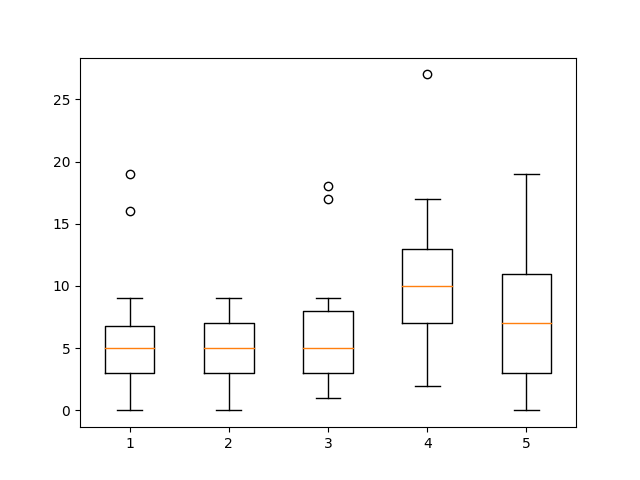
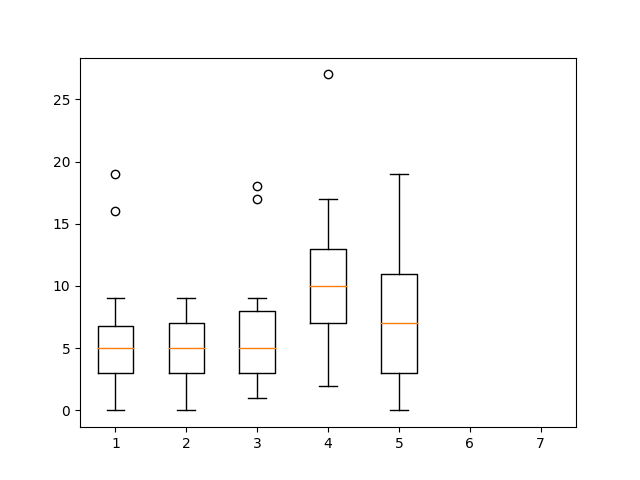
clean up

diff --git a/offline_analysis/reproduce_paper.py b/offline_analysis/reproduce_paper.py
@@ -13,44 +13,57 @@ if __name__ == "__main__":
     for group in ["100", "200", "300", "400", "500", "600", "700"]:    
         viz.gen_dispersion(["un", "una", "unas", "unos"], group, "spa", "DET", "blue", f"imgs/determiners_time/det_{group}_spa_un_unos_una_unas.png")
         viz.gen_dispersion(["el", "la", "los", "las"], group, "spa","DET", "red", f"imgs/determiners_time/det_{group}_spa_el_los_la_las.png")
-    
+        viz.gen_dispersion(["a"], group, "eng", "DET", "blue", f"imgs/determiners_time/det_{group}_eng_a.png")
+        viz.gen_dispersion(["the"], group, "eng", "DET", "red", f"imgs/determiners_time/det_{group}_eng_the.png")
+
     def_eng_res = viz.gen_word_boxplots(['the'], "DET", "eng", "imgs/determiners/boxplot_the_DET.png")
     print("Writing English definite article (the) boxplot to imgs/determiners/boxplot_the_DET.png")
-    print("F =", def_eng_res["ANOVA"].statistic, "p =", def_eng_res["ANOVA"].pvalue)
+    print("F-Statistic =", def_eng_res["ANOVA"].statistic, "p =", def_eng_res["ANOVA"].pvalue)
     print("Signifcant T-tests:", def_eng_res["significant_t-tests"])
     print("")
 
     indef_eng_res = viz.gen_word_boxplots(['a'], "DET", "eng", "imgs/determiners/boxplot_a_DET.png")
     print("Writing English indefinite article (a) boxplot to imgs/determiners/boxplot_a_DET.png")
-    print("F =", indef_eng_res["ANOVA"].statistic, "p =", indef_eng_res["ANOVA"].pvalue)
+    print("F-Statistic =", indef_eng_res["ANOVA"].statistic, "p =", indef_eng_res["ANOVA"].pvalue)
     print("Signifcant T-tests:", indef_eng_res["significant_t-tests"])
     print("")
 
     def_spa_res = viz.gen_word_boxplots(['el', 'los', 'las', 'la'], "DET", "spa", "imgs/determiners/el_los_las_la_DET_boxplot.png")
     print("Writing Spanish definite article (el/los/la/las) boxplot to imgs/determiners/el_los_las_la_DET_boxplot.png")
-    print("F =", def_spa_res["ANOVA"].statistic, "p =", def_spa_res["ANOVA"].pvalue)
+    print("F-Statistic =", def_spa_res["ANOVA"].statistic, "p =", def_spa_res["ANOVA"].pvalue)
     print("Signifcant T-tests:", def_spa_res["significant_t-tests"])
     print("")
 
     indef_spa_res = viz.gen_word_boxplots(['un', 'unos', 'una', 'unas'], "DET", "spa", "imgs/determiners/un_unos_una_unas_DET_boxplot.png")
     print("Writing Spanish indefinite article (un/unos/una/unas) boxplot to imgs/determiners/un_unos_una_unas_DET_boxplot.png")
-    print("F =", indef_spa_res["ANOVA"].statistic, "p =", indef_spa_res["ANOVA"].pvalue)
+    print("F-Statistic =", indef_spa_res["ANOVA"].statistic, "p =", indef_spa_res["ANOVA"].pvalue)
     print("Signifcant T-tests:", indef_spa_res["significant_t-tests"])
     print("")
 
-    obj_pron_res = viz.gen_word_boxplots(['lo', 'los', 'las', 'la'], "PRON", "spa", "imgs/pronouns/lo_los_las_la_PRON_boxplot.png")
-    print("Writing 3rd person object pronouns (lo/los/la/las) boxplot to imgs/pronouns/lo_los_las_la_PRON_boxplot.png")
-    print("F =", obj_pron_res["ANOVA"].statistic, "p =", obj_pron_res["ANOVA"].pvalue)
+    obj_pron_res = viz.gen_word_boxplots(['lo', 'los', 'las', 'la', 'le', 'les'], "PRON", "spa", "imgs/pronouns/le_les_lo_los_las_la_PRON_boxplot.png")
+    print("Writing 3rd person object pronouns (lo/los/la/las) boxplot to imgs/pronouns/le_les_lo_los_las_la_PRON_boxplot.png")
+    print("F-Statistic =", obj_pron_res["ANOVA"].statistic, "p =", obj_pron_res["ANOVA"].pvalue)
+    print("Means: ", obj_pron_res["means"])
     print("Signifcant T-tests:", obj_pron_res["significant_t-tests"])
     print("")
 
     clitics_res = viz.gen_clitic_boxplots(False, outfile="imgs/clitics/clitics.png")
-    print("Writing clitics (lo/los/la/las) boxplot to imgs/clitics/clitics.png")
-    print("F =", clitics_res["ANOVA"].statistic, "p =", clitics_res["ANOVA"].pvalue)
-    #print("Signifcant T-tests:", clitics_res["significant_t-tests"])
+    print("Writing clitics (lo/los/la/las/le/les) boxplot to imgs/clitics/clitics.png")
+    print("F-Statistic =", clitics_res["ANOVA"].statistic, "p =", clitics_res["ANOVA"].pvalue)
+    print("Means: ", clitics_res["means"])
+    print("Medians: ", clitics_res["medians"])
+    print("Ranges: ", clitics_res["ranges"])
+    print("IQRs:", clitics_res['IQRs'])
+    print("Standard Deviations:", clitics_res["standard_deviations"])
+    print("Signifcant T-tests:", clitics_res["significant_t-tests"])
     print("")
     
     clitics_w_pronouns_res = viz.gen_clitic_boxplots(True, outfile="imgs/clitics/clitics_w_pronouns.png")
-    print("Writing clitics and 3rd person pronouns (lo/los/la/las) boxplot to imgs/clitics/clitics_w_pronouns.png")
-    print("F =", clitics_w_pronouns_res["ANOVA"].statistic, "p =", clitics_w_pronouns_res["ANOVA"].pvalue)
-    #print("Signifcant T-tests:", clitics_res["significant_t-tests"])
+    print("Writing clitics and 3rd person pronouns (lo/los/la/las/le/les) boxplot to imgs/clitics/clitics_w_pronouns.png")
+    print("F-Statistic =", clitics_w_pronouns_res["ANOVA"].statistic, "p =", clitics_w_pronouns_res["ANOVA"].pvalue)
+    print("Means: ", clitics_w_pronouns_res["means"])
+    print("Medians: ", clitics_w_pronouns_res["medians"])
+    print("Ranges: ", clitics_w_pronouns_res["ranges"])
+    print("IQRs:", clitics_w_pronouns_res['IQRs'])
+    print("Standard Deviations:", clitics_w_pronouns_res["standard_deviations"])
+    print("Signifcant T-tests:", clitics_res["significant_t-tests"])

diff --git a/backend/corpus_tool.py b/backend/corpus_tool.py
@@ -513,20 +513,20 @@ class Visualizer:
         '''
         data = [[] for x in range(5)] if target_lang else [[] for x in range(7)] # 2 (monolingual) groups fewer if filtering lang
         if not target_lang:
-            map_group_to_data_idx = {100: 1, 200: 2, 300: 3, 400: 4, 500: 5, 600: 6, 700: 7}
+            map_group_to_data_idx = {100: 0, 200: 1, 300: 2, 400: 3, 500: 4, 600: 5, 700: 6}
             map_data_idx_to_group = {0: 100, 1: 200, 2: 300, 3: 400, 4: 500, 5: 600, 6: 700}
         elif target_lang == "eng":
-             map_group_to_data_idx = {100: 1, 200: 2, 300: 3, 400: 4, 500: 5}
+             map_group_to_data_idx = {100: 0, 200: 1, 300: 2, 400: 3, 500: 4}
              map_data_idx_to_group = {0: 100, 1: 200, 2: 300, 3: 400, 4: 500}
         elif target_lang == "spa":
-            map_group_to_data_idx = {100: 1, 200: 2, 500: 3, 600: 4, 700: 5}
+            map_group_to_data_idx = {100: 0, 200: 1, 500: 2, 600: 3, 700: 4}
             map_data_idx_to_group = {0: 100, 1: 200, 2: 500, 3: 600, 4: 700}
         for transcript in self.corpus.transcripts:
             if len(transcript.utterances) < 2:
                 continue
             if target_lang and target_lang != transcript.main_lang:
                 continue
-            group_idx = map_group_to_data_idx[int(str(transcript.participant_id)[0] + '00')]-1
+            group_idx = map_group_to_data_idx[int(str(transcript.participant_id)[0] + '00')]
             counter = 0
             for utterance in transcript.utterances:
                 for token in utterance['tokens']:
@@ -542,6 +542,7 @@ class Visualizer:
             "ANOVA": f_oneway(*data),
             "significant_t-tests": []
         }
+        #print("ANOVA degrees freedom within groups", sum([len(x) for x in data]) - len(data))
         if result_dict["ANOVA"].pvalue < 0.05:
             pairs_found = []
             for i, data_i, in enumerate(data):
@@ -553,6 +554,14 @@ class Visualizer:
                             pairs_found.append((group_i, group_j))
                             pairs_found.append((group_j, group_i))
                             result_dict['significant_t-tests'].append((group_i, group_j, ttest_ind(data_i, data_j)))
+        if len(data) < 7:
+            formatted_data = [[] for x in range(7)]
+            for i, g in enumerate([100, 200, 300, 400, 500, 600, 700]):
+                if g in map_group_to_data_idx:
+                    formatted_data[i] = data[map_group_to_data_idx[g]]
+                else:
+                    formatted_data[i] = []
+            data = formatted_data
         self.render_boxplot(data, outfile)
         return result_dict
 
@@ -579,7 +588,7 @@ class Visualizer:
                     for token in utterance['tokens']:
                         word = token.split(".")[0]
                         pos = token.split(".")[1]
-                        if (word in ['lo', 'la', 'las', 'los']) and (pos == "PRON"):
+                        if (word in ['lo', 'los', 'la', 'las', 'le', 'les']) and (pos == "PRON"):
                             counter += 1
                 if participant_id in data_map:
                     data_map[participant_id] += counter
@@ -594,11 +603,27 @@ class Visualizer:
         result_dict = {
             "data": data,
             "means": [np.mean(x) for x in data],
+            "medians": [np.median(x) for x in data],
+            "ranges": [(min(x), max(x)) for x in data],
             "standard_deviations": [np.std(x) for x in data],
             "ANOVA": f_oneway(*data),
-            "significant_t-tests": []
+            "significant_t-tests": [],
+            "IQRs": [np.quantile(x, [0.25, 0.75]) for x in data]
         }
         self.render_boxplot(data[0:2] + [[], []] + data[2:], outfile=outfile)
+        if result_dict["ANOVA"].pvalue < 0.05:
+            map_data_idx_to_group = {0: 100, 1: 200, 2: 500, 3: 600, 4: 700}
+            pairs_found = []
+            for i, data_i, in enumerate(data):
+                for j, data_j in enumerate(data):
+                    if ttest_ind(data_i, data_j).pvalue < 0.05:
+                        group_i = map_data_idx_to_group[i]
+                        group_j = map_data_idx_to_group[j]
+                        if (group_i, group_j) not in pairs_found:
+                            pairs_found.append((group_i, group_j))
+                            pairs_found.append((group_j, group_i))
+                            result_dict['significant_t-tests'].append((group_i, group_j, ttest_ind(data_i, data_j)))
+        #print("ANOVA degrees freedom within groups", sum([len(x) for x in data]) - len(data))
         return result_dict
 
     def gen_dispersion(self, target_word:str, group: str, target_lang:str, pos_filter:str, color, outfile=None):

diff --git a/backend/extract_enclitic.py b/backend/extract_enclitic.py
@@ -1,0 +1,33 @@
+from corpus_tool import Corpus, Transcript
+from trankit import Pipeline
+
+def thing():
+        corpus = Corpus('transcriptions')
+        pipeline = Pipeline("spanish")
+        with open('clitics.csv', 'w') as file:
+                data = {}
+                for transcript in corpus.transcripts:
+                        print(transcript.participant_id, transcript.main_lang)
+                        if transcript.main_lang != "spa":
+                                continue
+                        group_id = str(transcript.participant_id)[0]
+                        try:
+                                for utterance in transcript.utterances:
+                                        eng_toks = [x for x in utterance['tokens'] if x.split(".")[2] == "eng"]
+                                        spa_toks = [x.split(".")[0] for x in utterance['tokens'] if x.split(".")[2] == "spa"]
+                                        utt_lang = "eng" if len(eng_toks) > len(spa_toks) else "spa"
+                                        if utt_lang == "spa":
+                                                tokens = pipeline.tokenize(" ".join(spa_toks), is_sent=True)['tokens']
+                                                for token in tokens:
+                                                        if "expanded" in token:
+                                                                print(token['text'], token['expanded'])
+                                                                exp_tok_text = token['expanded'][1]['text']
+                                                                if exp_tok_text in ['lo', 'los', 'la', 'las', 'le', 'les']:
+                                                                        print(token)
+                                                                        file.write(f"{transcript.participant_id}, {token['expanded'][1]['text']}")
+                                                                        file.write("\n")
+                        except:
+                                print("error!!", transcript.participant_id)
+
+if __name__ == "__main__":
+        thing()
